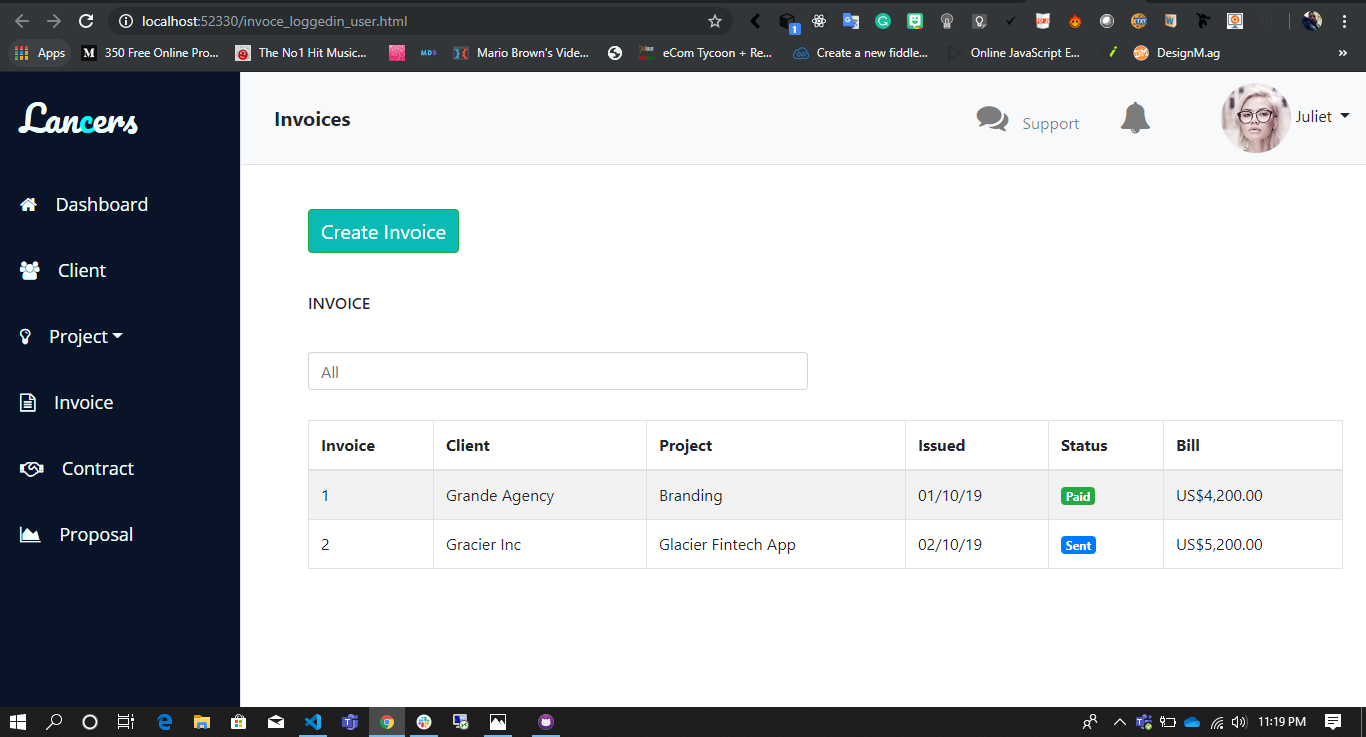
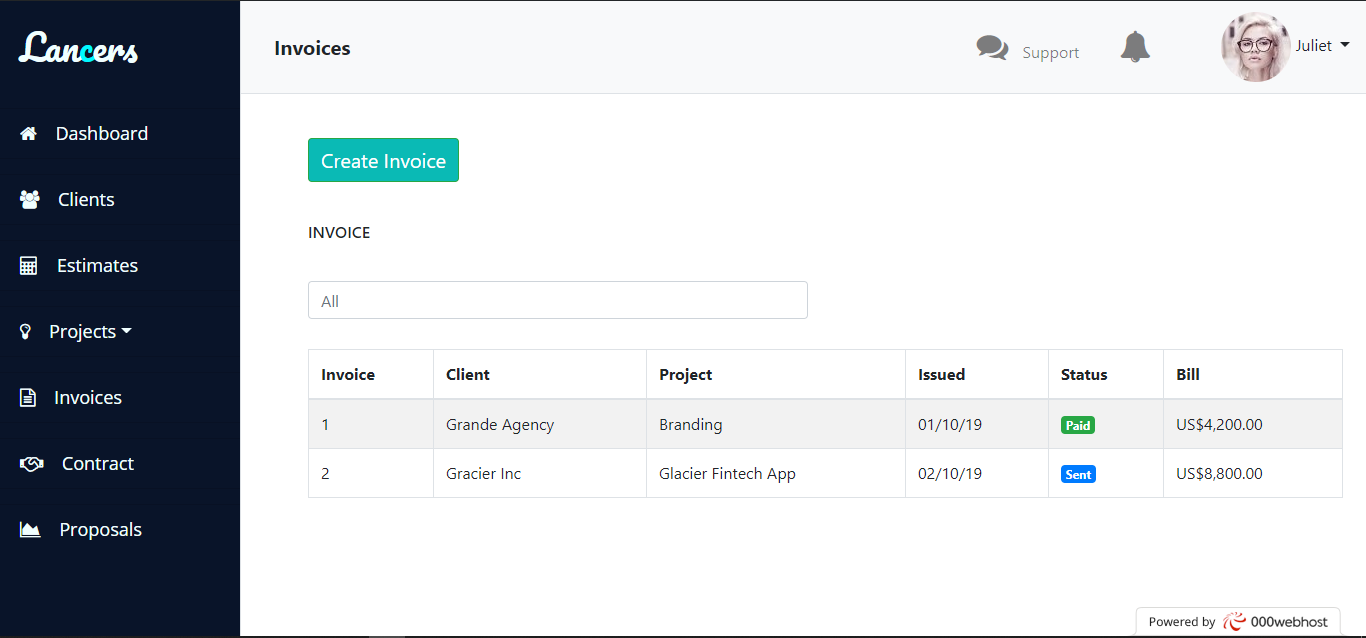
Bugs
Fixed some typo errors

diff --git a/invoce_loggedin_user.html b/invoce_loggedin_user.html
@@ -162,12 +162,15 @@ dl, ol, ul {
             > <i class="fa fa-home" aria-hidden="true"></i> Dashboard</a>
           
           <a href="#" class="list-group-item list-group-item-action bg-light"
-            > <i class="fa fa-users" aria-hidden="true"> </i> Client</a
+            > <i class="fa fa-users" aria-hidden="true"> </i> Clients</a
+          >
+          <a href="#" class="list-group-item list-group-item-action bg-light"
+            > <i class="fa fa-calculator" aria-hidden="true"> </i> Estimates</a
           >
 
           <div>
             <a href="#" class="list-group-item list-group-item-action bg-light  dropdown-toggle" id="dropdownMenuButton" data-toggle="dropdown" aria-haspopup="true" aria-expanded="false">
-            <i class="fa fa-lightbulb-o" aria-hidden="true">  </i> Project</span></a>
+            <i class="fa fa-lightbulb-o" aria-hidden="true">  </i> Projects</span></a>
             <ul class="dropdown-menu projectdropdown" aria-labelledby="dropdownMenuButton" style="background-color: #091429" >
                 <a class="dropdown-item" style="color: azure;" href="#">Status</a>
                 <a class="dropdown-item" style="color: azure;"" href="#">Overview</a>
@@ -177,13 +180,13 @@ dl, ol, ul {
           </div>
 
           <a href="#invoice-toggle" class="list-group-item list-group-item-action bg-light"
-            ><i class="fa fa-file-text-o" aria-hidden="true"></i></i> Invoice</a
+            ><i class="fa fa-file-text-o" aria-hidden="true"></i></i> Invoices</a
           >
           <a href="#" class="list-group-item list-group-item-action bg-light"
             > <i class="fa fa-handshake-o"></i> Contract</a
           >
           <a href="#" class="list-group-item list-group-item-action bg-light"
-            > <i class="fa fa-area-chart" aria-hidden="true"></i> Proposal</a
+            > <i class="fa fa-area-chart" aria-hidden="true"></i> Proposals</a
           >
         </ul>
       </div>
@@ -254,7 +257,7 @@ dl, ol, ul {
                                   <td>Glacier Fintech App</td>
                                   <td>02/10/19</td>
                                   <td><span class="badge badge-button badge-primary"> Sent </span></td>
-                                  <td>US$5,200.00</td>
+                                  <td>US$8,800.00</td>
                                 </tr>
                             </tbody>
                           </table>
